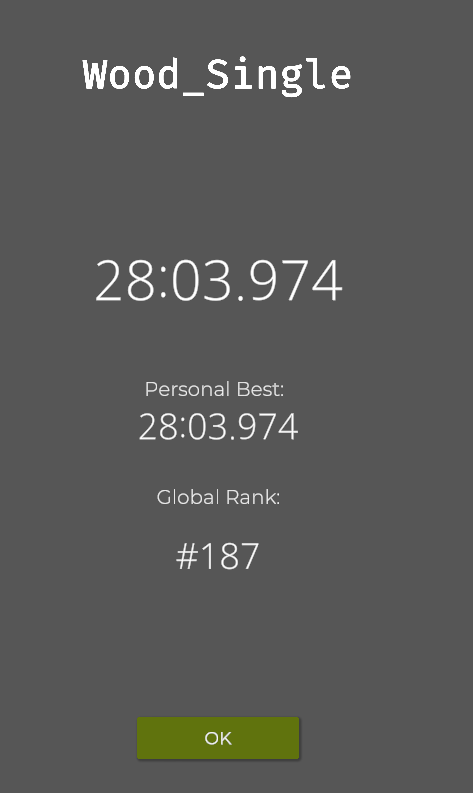
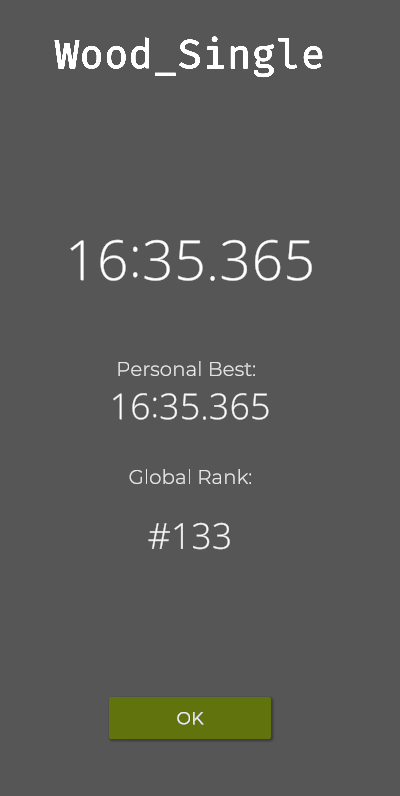
update wood farming

diff --git a/Wood Farming/wood_farming_single.py b/Wood Farming/wood_farming_single.py
@@ -1,0 +1,23 @@
+def farm_wood():
+	
+	def wood_worker():
+		while True:
+			for i in range(get_world_size()):
+				if get_water() < 0.5:
+					use_item(Items.Water)
+				x = get_pos_x()
+				y = get_pos_y()
+	
+				if(can_harvest()):
+					harvest()
+				if (x+y) % 2 == 0:
+					plant(Entities.Tree)
+				else:
+					plant(Entities.Bush)
+				move(North)
+			move(East)
+
+	clear()
+	wood_worker()
+	
+farm_wood()

diff --git a/Wood Farming/wood_farm.py b/Wood Farming/wood_farm.py
@@ -1,8 +1,5 @@
 def farm_wood():
 	
-	def is_even(n):
-		return n % 2 == 0
-	
 	def wood_worker():
 		while True:
 			for i in range(get_world_size()):